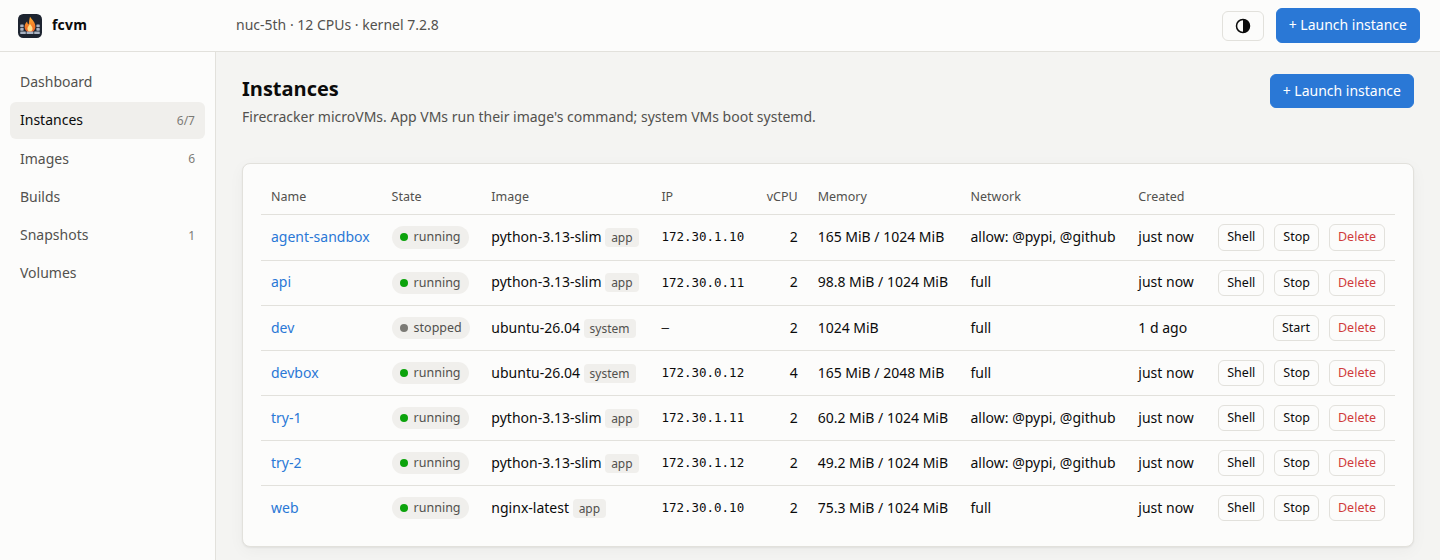
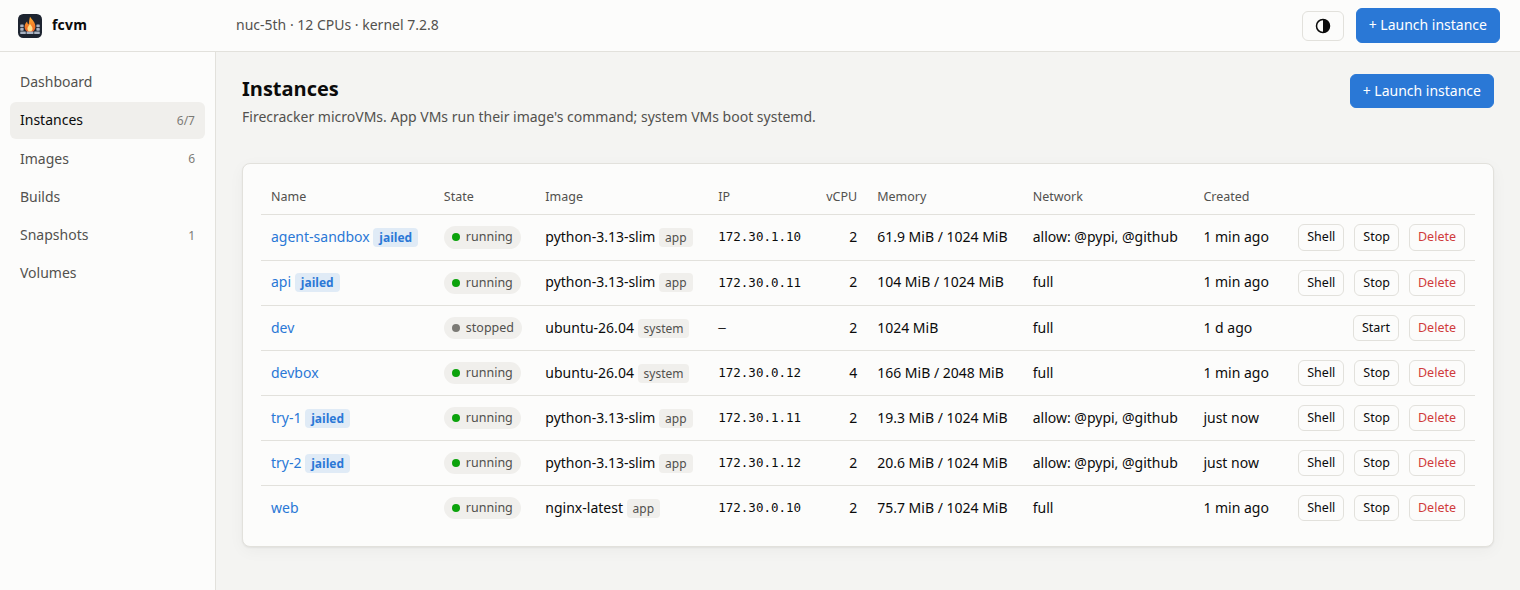
Web console: a "jailed" tag on jailed VMs; README screenshot with it
- A "jailed" tag (accent-coloured, with a tooltip on what the jailer gives)
  next to the VM's name in the Instances list and the dashboard, and in the
  instance page's summary line.
- The Instances table keeps name, image, network and dates on one line, and
  scrolls sideways in its card instead of overflowing on narrow screens.
- The README and web-console screenshots are retaken with the tag.

Claude-Session: https://claude.ai/code/session_01QVeYKtNTbJKsdmR5X97hsQ

diff --git a/lib/web/static/app.js b/lib/web/static/app.js
@@ -282,7 +282,7 @@ function dashboard() {
         h("thead", {}, h("tr", {}, h("th", {}, "Name"), h("th", {}, "Image"), h("th", {}, "IP"),
           h("th", { class: "num" }, "CPU"), h("th", { class: "num" }, "Memory (used / allocated)"), h("th", {}, "Network"))),
         h("tbody", {}, running.map((v) => h("tr", {},
-          h("td", {}, h("a", { href: `#/instances/${encodeURIComponent(v.name)}` }, v.name)),
+          h("td", {}, h("a", { href: `#/instances/${encodeURIComponent(v.name)}` }, v.name), " ", jailTag(v)),
           h("td", {}, v.image), h("td", { class: "mono" }, v.ip || "–"),
           h("td", { class: "num" }, pct(cpuOf(v.name))),
           h("td", { class: "num" }, `${bytes(v.mem_used_bytes)} / ${v.mem_mib} MiB`),
@@ -291,6 +291,10 @@ function dashboard() {
 }
 
 // --- instances -----------------------------------------------------------------------------
+// Jailed VMs run their Firecracker under the jailer: worth seeing at a glance.
+function jailTag(v) {
+  return v.jail ? h("span", { class: "tag jailed", title: "Runs under the Firecracker jailer: its own uid, chroot, cgroup limits and network namespace" }, "jailed") : "";
+}
 function badge(st) {
   return h("span", { class: `badge ${st}` }, h("span", { class: "dot" }), st);
 }
@@ -340,17 +344,17 @@ function instances() {
     h("div", { class: "head" }, h("div", {}, h("h1", {}, "Instances"),
       h("p", { class: "sub" }, "Firecracker microVMs. App VMs run their image's command; system VMs boot systemd.")),
       h("span", { class: "spacer" }), h("button", { class: "primary", onclick: () => launchDialog() }, "+ Launch instance")),
-    h("div", { class: "card" }, state.vms.length ? h("table", {},
+    h("div", { class: "card", style: "overflow-x:auto" }, state.vms.length ? h("table", {},
       h("thead", {}, h("tr", {}, ["Name", "State", "Image", "IP", "vCPU", "Memory", "Network", "Created", ""].map((c, i) =>
         h("th", { class: i === 4 ? "num" : "" }, c)))),
       h("tbody", {}, state.vms.map((v) => h("tr", {},
-        h("td", {}, h("a", { href: `#/instances/${encodeURIComponent(v.name)}` }, v.name)),
+        h("td", { class: "nowrap" }, h("a", { href: `#/instances/${encodeURIComponent(v.name)}` }, v.name), " ", jailTag(v)),
         h("td", {}, badge(v.state === "exited" ? `exited` : v.state), v.exit_code != null ? h("span", { class: "hint" }, ` (${v.exit_code})`) : "", restartNote(v)),
-        h("td", {}, v.image, " ", h("span", { class: "tag" }, v.type)),
+        h("td", { class: "nowrap" }, v.image, " ", h("span", { class: "tag" }, v.type)),
         h("td", { class: "mono" }, v.ip || "–"),
         h("td", { class: "num" }, v.vcpus),
         h("td", { class: "nowrap" }, v.state === "running" ? `${bytes(v.mem_used_bytes)} / ${v.mem_mib} MiB` : `${v.mem_mib} MiB`),
-        h("td", {}, netLabel(v)),
+        h("td", { class: "nowrap" }, netLabel(v)),
         h("td", { class: "nowrap" }, ago(v.created)),
         h("td", { class: "actions" }, h("div", { class: "row", style: "justify-content:flex-end" }, vmActions(v, true)))))))
       : h("div", { class: "empty" }, "No instances yet.")));
@@ -376,7 +380,7 @@ async function instancePage(name, tab, navigated) {
       body);
   }
   $("vm-title").replaceChildren(v.name, " ", badge(v.state));
-  $("vm-sub").textContent = `${v.image} · ${v.type} · ${v.vcpus} vCPU · ${v.mem_mib} MiB · ${v.ip || "no network"}`;
+  $("vm-sub").textContent = `${v.image} · ${v.type}${v.jail ? " · jailed" : ""} · ${v.vcpus} vCPU · ${v.mem_mib} MiB · ${v.ip || "no network"}`;
   const extra = [];
   if (v.state === "running") {
     extra.push(h("button", { onclick: () => act(`Restarted ${name}`, () => api("POST", `vms/${name}/restart`)) }, "Restart"));

diff --git a/lib/web/static/style.css b/lib/web/static/style.css
@@ -163,6 +163,7 @@ td.num, th.num { text-align: right; font-variant-numeric: tabular-nums; }
 .badge.exited .dot { background: var(--warning); }
 .badge.failed .dot { background: var(--critical); }
 .tag { font-size: 12px; color: var(--text-secondary); background: var(--surface-2); border-radius: 4px; padding: 1px 6px; }
+.tag.jailed { color: var(--accent); background: color-mix(in srgb, var(--accent) 13%, transparent); font-weight: 550; }
 
 /* tabs */
 .tabs { display: flex; gap: 4px; border-bottom: 1px solid var(--border); margin-bottom: 16px; }

diff --git a/CHANGELOG.md b/CHANGELOG.md
@@ -4,6 +4,11 @@ fcvm follows [semantic versioning](https://semver.org/). Before 1.0, minor
 releases (0.x.0) may change commands and on-disk formats; the notes say how
 to move across.
 
+## Unreleased
+
+- Web console: a "jailed" tag next to jailed VMs in the Instances list and
+  the dashboard, and on the instance page. Instance rows stay on one line.
+
 ## 0.5.1 (2026-09-30)
 
 Upgrade with `fcvm upgrade` (or re-run the installer). Then:
